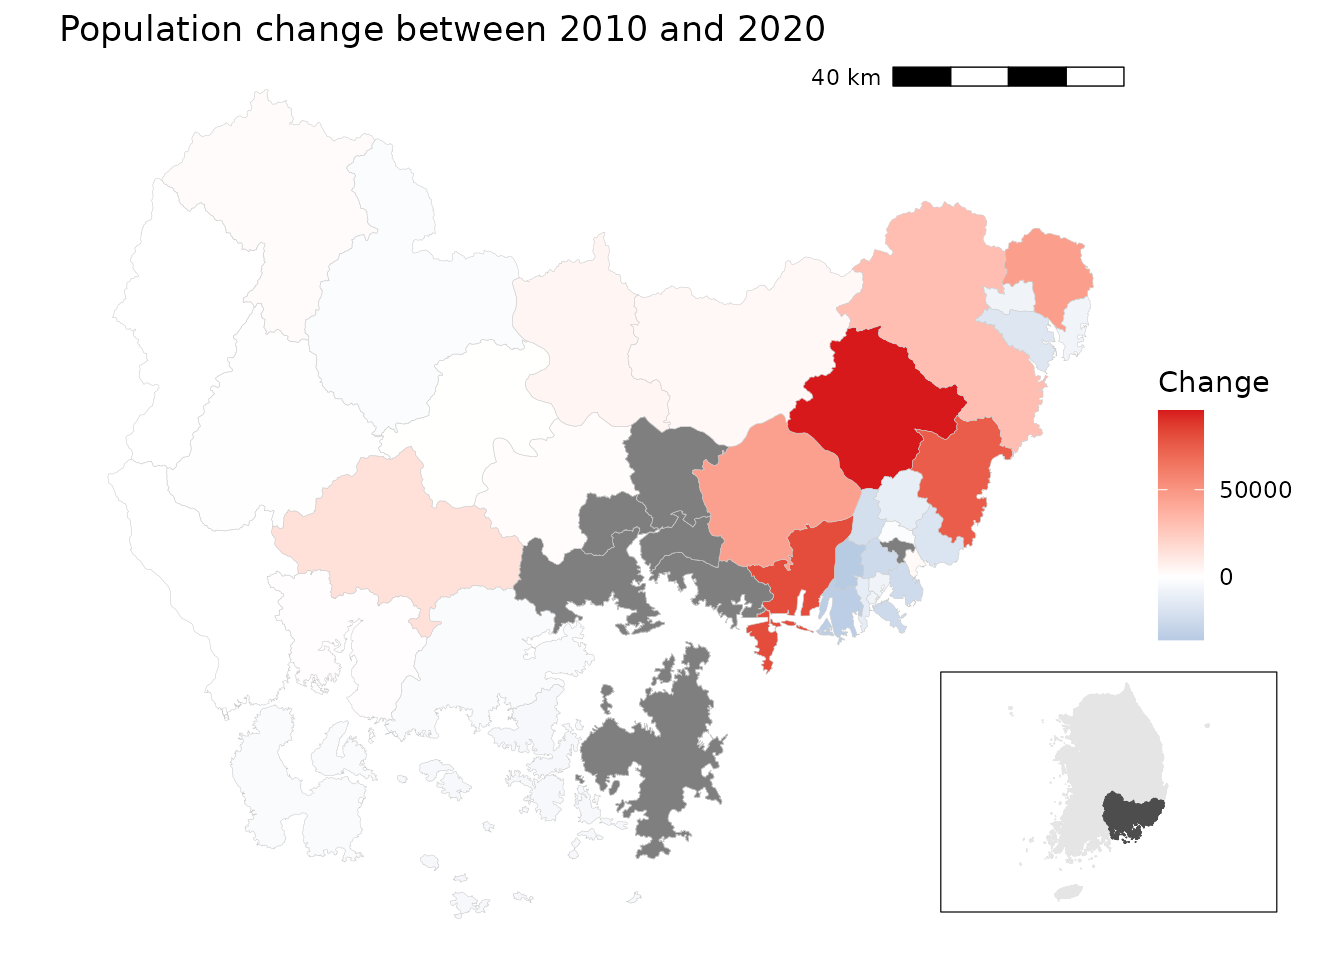
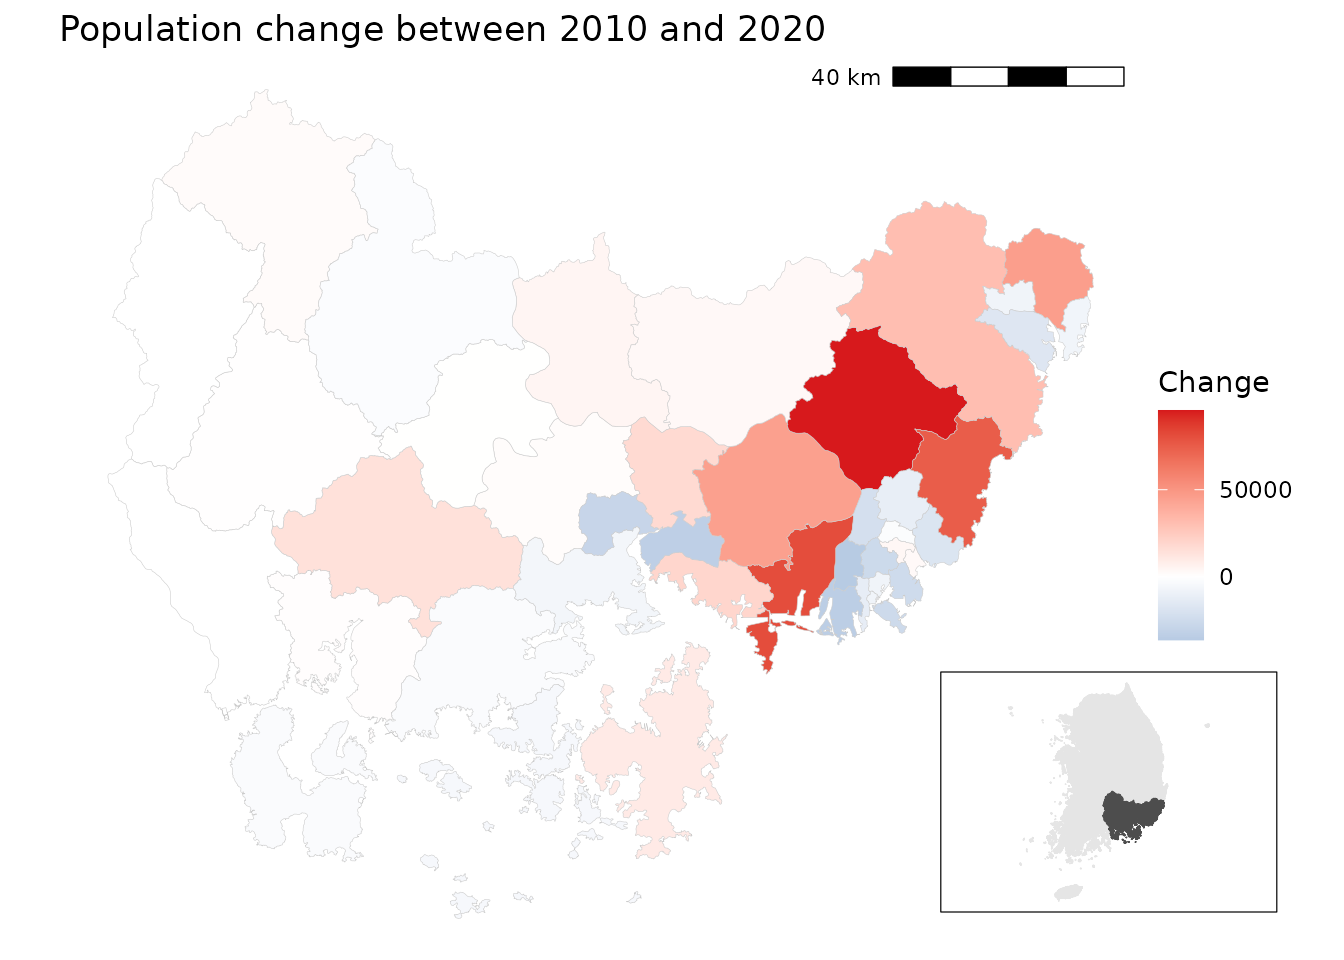
Deploying to gh-pages from @ sigmafelix/tidycensuskr@d9fde5e1b535af398fd969662a090205b90d7689 🚀

Changed region(s): [[0.375, 0.4375, 0.5938, 0.6562], [0.4062, 0.6562, 0.5312, 0.9062], [0.6562, 0.5625, 0.6875, 0.5938]]

diff --git a/articles/v01_intro.html b/articles/v01_intro.html
@@ -20,7 +20,7 @@
 
     <a class="navbar-brand me-2" href="../index.html">tidycensuskr</a>
 
-    <small class="nav-text text-muted me-auto" data-bs-toggle="tooltip" data-bs-placement="bottom" title="">0.2.2</small>
+    <small class="nav-text text-muted me-auto" data-bs-toggle="tooltip" data-bs-placement="bottom" title="">0.2.3</small>
 
 
     <button class="navbar-toggler" type="button" data-bs-toggle="collapse" data-bs-target="#navbar" aria-controls="navbar" aria-expanded="false" aria-label="Toggle navigation">
@@ -60,7 +60,7 @@
 
       <h1>Working with tidycensuskr</h1>
             
-            <h4 data-toc-skip class="date">November 02, 2025</h4>
+            <h4 data-toc-skip class="date">November 05, 2025</h4>
       
       <small class="dont-index">Source: <a href="https://github.com/sigmafelix/tidycensuskr/blob/main/vignettes/v01_intro.Rmd" class="external-link"><code>vignettes/v01_intro.Rmd</code></a></small>
       <div class="d-none name"><code>v01_intro.Rmd</code></div>
@@ -415,20 +415,15 @@ combination of year, region, and category</li>
 <div class="sourceCode" id="cb7"><pre class="downlit sourceCode r">
 <code class="sourceCode R"><span><span class="fu"><a href="https://rdrr.io/r/utils/data.html" class="external-link">data</a></span><span class="op">(</span><span class="va">censuskor</span><span class="op">)</span></span>
 <span><span class="fu"><a href="https://rdrr.io/r/utils/head.html" class="external-link">head</a></span><span class="op">(</span><span class="va">censuskor</span><span class="op">)</span></span>
-<span><span class="co">#&gt;   year              adm1 adm1_code        adm2 adm2_code       type</span></span>
-<span><span class="co">#&gt; 1 2010 Chungcheongbuk-do        33 Cheongju-si     33010 population</span></span>
-<span><span class="co">#&gt; 2 2010 Chungcheongbuk-do        33 Cheongju-si     33010 population</span></span>
-<span><span class="co">#&gt; 3 2010 Chungcheongbuk-do        33 Cheongju-si     33010 population</span></span>
-<span><span class="co">#&gt; 4 2020 Chungcheongbuk-do        33 Cheongju-si     33040        tax</span></span>
-<span><span class="co">#&gt; 5 2020 Chungcheongbuk-do        33 Cheongju-si     33040        tax</span></span>
-<span><span class="co">#&gt; 6 2015 Chungcheongbuk-do        33 Cheongju-si     33040 population</span></span>
-<span><span class="co">#&gt;           class1  class2        unit  value</span></span>
-<span><span class="co">#&gt; 1 all households   total     persons 646939</span></span>
-<span><span class="co">#&gt; 2 all households    male     persons 318355</span></span>
-<span><span class="co">#&gt; 3 all households  female     persons 328584</span></span>
-<span><span class="co">#&gt; 4         income general million KRW 524478</span></span>
-<span><span class="co">#&gt; 5         income   labor million KRW 598560</span></span>
-<span><span class="co">#&gt; 6 all households   total     persons 797099</span></span></code></pre></div>
+<span><span class="co">#&gt; <span style="color: #949494;"># A data frame: 6 × 10</span></span></span>
+<span><span class="co">#&gt;    year adm1          adm1_code adm2  adm2_code type  class1 class2 unit   value</span></span>
+<span><span class="co">#&gt; <span style="color: #BCBCBC;">*</span> <span style="color: #949494; font-style: italic;">&lt;dbl&gt;</span> <span style="color: #949494; font-style: italic;">&lt;chr&gt;</span>             <span style="color: #949494; font-style: italic;">&lt;dbl&gt;</span> <span style="color: #949494; font-style: italic;">&lt;chr&gt;</span>     <span style="color: #949494; font-style: italic;">&lt;dbl&gt;</span> <span style="color: #949494; font-style: italic;">&lt;chr&gt;</span> <span style="color: #949494; font-style: italic;">&lt;chr&gt;</span>  <span style="color: #949494; font-style: italic;">&lt;chr&gt;</span>  <span style="color: #949494; font-style: italic;">&lt;chr&gt;</span>  <span style="color: #949494; font-style: italic;">&lt;dbl&gt;</span></span></span>
+<span><span class="co">#&gt; <span style="color: #BCBCBC;">1</span>  <span style="text-decoration: underline;">2</span>010 Chungcheongb…        33 Cheo…     <span style="text-decoration: underline;">33</span>010 popu… all h… total  pers… <span style="text-decoration: underline;">646</span>939</span></span>
+<span><span class="co">#&gt; <span style="color: #BCBCBC;">2</span>  <span style="text-decoration: underline;">2</span>010 Chungcheongb…        33 Cheo…     <span style="text-decoration: underline;">33</span>010 popu… all h… male   pers… <span style="text-decoration: underline;">318</span>355</span></span>
+<span><span class="co">#&gt; <span style="color: #BCBCBC;">3</span>  <span style="text-decoration: underline;">2</span>010 Chungcheongb…        33 Cheo…     <span style="text-decoration: underline;">33</span>010 popu… all h… female pers… <span style="text-decoration: underline;">328</span>584</span></span>
+<span><span class="co">#&gt; <span style="color: #BCBCBC;">4</span>  <span style="text-decoration: underline;">2</span>020 Chungcheongb…        33 Cheo…     <span style="text-decoration: underline;">33</span>040 tax   income gener… mill… <span style="text-decoration: underline;">524</span>478</span></span>
+<span><span class="co">#&gt; <span style="color: #BCBCBC;">5</span>  <span style="text-decoration: underline;">2</span>020 Chungcheongb…        33 Cheo…     <span style="text-decoration: underline;">33</span>040 tax   income labor  mill… <span style="text-decoration: underline;">598</span>560</span></span>
+<span><span class="co">#&gt; <span style="color: #BCBCBC;">6</span>  <span style="text-decoration: underline;">2</span>015 Chungcheongb…        33 Cheo…     <span style="text-decoration: underline;">33</span>040 popu… all h… total  pers… <span style="text-decoration: underline;">797</span>099</span></span></code></pre></div>
 </div>
 <div class="section level3">
 <h3 id="quick-visualization">Quick Visualization<a class="anchor" aria-label="anchor" href="#quick-visualization"></a>

diff --git a/articles/v03_gallery.html b/articles/v03_gallery.html
@@ -20,7 +20,7 @@
 
     <a class="navbar-brand me-2" href="../index.html">tidycensuskr</a>
 
-    <small class="nav-text text-muted me-auto" data-bs-toggle="tooltip" data-bs-placement="bottom" title="">0.2.2</small>
+    <small class="nav-text text-muted me-auto" data-bs-toggle="tooltip" data-bs-placement="bottom" title="">0.2.3</small>
 
 
     <button class="navbar-toggler" type="button" data-bs-toggle="collapse" data-bs-target="#navbar" aria-controls="navbar" aria-expanded="false" aria-label="Toggle navigation">
@@ -60,7 +60,7 @@
 
       <h1>Analytics Gallery with tidycensuskr</h1>
             
-            <h4 data-toc-skip class="date">November 02, 2025</h4>
+            <h4 data-toc-skip class="date">November 05, 2025</h4>
       
       <small class="dont-index">Source: <a href="https://github.com/sigmafelix/tidycensuskr/blob/main/vignettes/v03_gallery.Rmd" class="external-link"><code>vignettes/v03_gallery.Rmd</code></a></small>
       <div class="d-none name"><code>v03_gallery.Rmd</code></div>
@@ -108,12 +108,12 @@ areas.</p>
 <span><span class="fu"><a href="https://rdrr.io/r/utils/data.html" class="external-link">data</a></span><span class="op">(</span><span class="va">adm2_sf_2020</span><span class="op">)</span></span>
 <span></span>
 <span><span class="co"># Load 2020 economy data</span></span>
-<span><span class="va">df_2020_economy</span> <span class="op">&lt;-</span> <span class="fu"><a href="../reference/anycensus.html">anycensus</a></span><span class="op">(</span>year <span class="op">=</span> <span class="fl">2020</span>, </span>
+<span><span class="va">df_2020_economy</span> <span class="op">&lt;-</span> <span class="fu"><a href="../reference/anycensus.html">anycensus</a></span><span class="op">(</span>year <span class="op">=</span> <span class="fl">2020</span>,</span>
 <span>                             type <span class="op">=</span> <span class="st">"economy"</span><span class="op">)</span></span>
 <span></span>
 <span><span class="co"># Merge with spatial data</span></span>
 <span><span class="va">adm2_sf_2020_economy</span> <span class="op">&lt;-</span> <span class="va">adm2_sf_2020</span> <span class="op">|&gt;</span></span>
-<span>  <span class="fu"><a href="https://dplyr.tidyverse.org/reference/mutate-joins.html" class="external-link">inner_join</a></span><span class="op">(</span><span class="va">df_2020_economy</span>, by <span class="op">=</span> <span class="st">"adm2_code"</span><span class="op">)</span> </span>
+<span>  <span class="fu">dplyr</span><span class="fu">::</span><span class="fu"><a href="https://dplyr.tidyverse.org/reference/mutate-joins.html" class="external-link">inner_join</a></span><span class="op">(</span><span class="va">df_2020_economy</span>, by <span class="op">=</span> <span class="st">"adm2_code"</span><span class="op">)</span></span>
 <span></span>
 <span><span class="co"># Variable of interest: number of companies</span></span>
 <span><span class="va">var</span> <span class="op">&lt;-</span> <span class="va">adm2_sf_2020_economy</span><span class="op">$</span><span class="va">company_total_cnt</span></span></code></pre></div>
@@ -146,7 +146,7 @@ areas.</p>
 <h3 id="local-morans-i-and-lisa-map">Local Moran’s I and LISA map<a class="anchor" aria-label="anchor" href="#local-morans-i-and-lisa-map"></a>
 </h3>
 <div class="sourceCode" id="cb4"><pre class="downlit sourceCode r">
-<code class="sourceCode R"><span><span class="co"># Local Moran’s I</span></span>
+<code class="sourceCode R"><span><span class="co"># Local Moran's I</span></span>
 <span><span class="va">local_moran</span> <span class="op">&lt;-</span> <span class="fu">localmoran</span><span class="op">(</span><span class="va">var</span>, <span class="va">lw</span>, zero.policy <span class="op">=</span> <span class="cn">TRUE</span><span class="op">)</span></span>
 <span></span>
 <span><span class="co"># Bind results back to sf object</span></span>
@@ -184,9 +184,9 @@ areas.</p>
 <span>  <span class="fu"><a href="https://ggplot2.tidyverse.org/reference/ggtheme.html" class="external-link">theme_minimal</a></span><span class="op">(</span><span class="op">)</span></span></code></pre></div>
 <p><img src="v03_gallery_files/figure-html/local_moran_1,%20-1.png" width="672"></p>
 <p>The results reveal a strong metropolitan concentration of economic
-activity. High–High (H–H) clusters are predominantly located in the
+activity. High-High (H-H) clusters are predominantly located in the
 Seoul Metropolitan Area, reflecting its central role in South Korea’s
-economy. Low–Low (L–L) clusters appear in Gangwon Province and along the
+economy. Low-Low (L-L) clusters appear in Gangwon Province and along the
 borders of Jeollabuk-do, Jeollanam-do, Gyeongsangbuk-do, and
 Chungcheongnam-do, indicating regions with consistently low levels of
 company presence. This spatial pattern highlights the dominance of the

diff --git a/reference/censuskor.html b/reference/censuskor.html
@@ -1,7 +1,9 @@
 <!DOCTYPE html>
 <!-- Generated by pkgdown: do not edit by hand --><html lang="en"><head><meta http-equiv="Content-Type" content="text/html; charset=UTF-8"><meta charset="utf-8"><meta http-equiv="X-UA-Compatible" content="IE=edge"><meta name="viewport" content="width=device-width, initial-scale=1, shrink-to-fit=no"><title>South Korea Census Data — censuskor • tidycensuskr</title><script src="../deps/jquery-3.6.0/jquery-3.6.0.min.js"></script><meta name="viewport" content="width=device-width, initial-scale=1, shrink-to-fit=no"><link href="../deps/bootstrap-5.3.1/bootstrap.min.css" rel="stylesheet"><script src="../deps/bootstrap-5.3.1/bootstrap.bundle.min.js"></script><link href="../deps/font-awesome-6.5.2/css/all.min.css" rel="stylesheet"><link href="../deps/font-awesome-6.5.2/css/v4-shims.min.css" rel="stylesheet"><script src="../deps/headroom-0.11.0/headroom.min.js"></script><script src="../deps/headroom-0.11.0/jQuery.headroom.min.js"></script><script src="../deps/bootstrap-toc-1.0.1/bootstrap-toc.min.js"></script><script src="../deps/clipboard.js-2.0.11/clipboard.min.js"></script><script src="../deps/search-1.0.0/autocomplete.jquery.min.js"></script><script src="../deps/search-1.0.0/fuse.min.js"></script><script src="../deps/search-1.0.0/mark.min.js"></script><!-- pkgdown --><script src="../pkgdown.js"></script><meta property="og:title" content="South Korea Census Data — censuskor"><meta name="description" content="District level data including tax, population, business entities,
+housing, economy, medicine
 and mortality in South Korea in 2010, 2015, and/or 2020. The availble
 years and variables depend on the type of data."><meta property="og:description" content="District level data including tax, population, business entities,
+housing, economy, medicine
 and mortality in South Korea in 2010, 2015, and/or 2020. The availble
 years and variables depend on the type of data."></head><body>
     <a href="#main" class="visually-hidden-focusable">Skip to contents</a>
@@ -11,7 +13,7 @@ years and variables depend on the type of data."></head><body>
 
     <a class="navbar-brand me-2" href="../index.html">tidycensuskr</a>
 
-    <small class="nav-text text-muted me-auto" data-bs-toggle="tooltip" data-bs-placement="bottom" title="">0.2.2</small>
+    <small class="nav-text text-muted me-auto" data-bs-toggle="tooltip" data-bs-placement="bottom" title="">0.2.3</small>
 
 
     <button class="navbar-toggler" type="button" data-bs-toggle="collapse" data-bs-target="#navbar" aria-controls="navbar" aria-expanded="false" aria-label="Toggle navigation">
@@ -45,6 +47,7 @@ years and variables depend on the type of data."></head><body>
 
     <div class="ref-description section level2">
     <p>District level data including tax, population, business entities,
+housing, economy, medicine
 and mortality in South Korea in 2010, 2015, and/or 2020. The availble
 years and variables depend on the type of data.</p>
     </div>
@@ -56,7 +59,7 @@ years and variables depend on the type of data.</p>
 
     <div class="section level2">
     <h2 id="format">Format<a class="anchor" aria-label="anchor" href="#format"></a></h2>
-    <p>A data.frame with 41930 rows and 10 variables:</p>
+    <p>A data.frame with 54218 rows and 10 variables:</p>
     </div>
     <div class="section level2">
     <h2 id="source">Source<a class="anchor" aria-label="anchor" href="#source"></a></h2>
@@ -80,7 +83,10 @@ e.g., "population", "tax", "mortality", "housing", "medicine", "migration", "env
 </ul></div>
     <div class="section level2">
     <h2 id="note">Note<a class="anchor" aria-label="anchor" href="#note"></a></h2>
-    <p>For temporal comparison, province names in adm1 field are
+    <p>NA values in the value field indicate that the data was omitted
+or suppressed. We kept these NA values as-is to reflect the
+original data from the source.
+For temporal comparison, province names in adm1 field are
 standardized to the common names with no suffix in metropolitan cities
 and "-do" suffix in provinces.
 For example, "Seoul" instead of "Seoul Metropolitan City",

diff --git a/index.html b/index.html
@@ -11,8 +11,8 @@
 <script src="deps/bootstrap-5.3.1/bootstrap.bundle.min.js"></script><link href="deps/font-awesome-6.5.2/css/all.min.css" rel="stylesheet">
 <link href="deps/font-awesome-6.5.2/css/v4-shims.min.css" rel="stylesheet">
 <script src="deps/headroom-0.11.0/headroom.min.js"></script><script src="deps/headroom-0.11.0/jQuery.headroom.min.js"></script><script src="deps/bootstrap-toc-1.0.1/bootstrap-toc.min.js"></script><script src="deps/clipboard.js-2.0.11/clipboard.min.js"></script><script src="deps/search-1.0.0/autocomplete.jquery.min.js"></script><script src="deps/search-1.0.0/fuse.min.js"></script><script src="deps/search-1.0.0/mark.min.js"></script><!-- pkgdown --><script src="pkgdown.js"></script><meta property="og:title" content="Easy Access for South Korea Census Data and Boundaries">
-<meta name="description" content="Census and administrative data in South Korea are a basic source of quantitative and mixed-methods research for social and urban scientists. This package provides a sf-based standardized workflow based on direct open API access to the major census and administrative data sources and pre-generated files in South Korea.">
-<meta property="og:description" content="Census and administrative data in South Korea are a basic source of quantitative and mixed-methods research for social and urban scientists. This package provides a sf-based standardized workflow based on direct open API access to the major census and administrative data sources and pre-generated files in South Korea.">
+<meta name="description" content="Census and administrative data in South Korea are a basic source of quantitative and mixed-methods research for social and urban scientists. This package provides a sf (Pebesma et al., 2024 &lt;doi:10.32614/CRAN.package.sf&gt;) based standardized workflow based on direct open API access to the major census and administrative data sources and pre-generated files in South Korea.">
+<meta property="og:description" content="Census and administrative data in South Korea are a basic source of quantitative and mixed-methods research for social and urban scientists. This package provides a sf (Pebesma et al., 2024 &lt;doi:10.32614/CRAN.package.sf&gt;) based standardized workflow based on direct open API access to the major census and administrative data sources and pre-generated files in South Korea.">
 </head>
 <body>
     <a href="#main" class="visually-hidden-focusable">Skip to contents</a>
@@ -22,7 +22,7 @@
 
     <a class="navbar-brand me-2" href="index.html">tidycensuskr</a>
 
-    <small class="nav-text text-muted me-auto" data-bs-toggle="tooltip" data-bs-placement="bottom" title="">0.2.2</small>
+    <small class="nav-text text-muted me-auto" data-bs-toggle="tooltip" data-bs-placement="bottom" title="">0.2.3</small>
 
 
     <button class="navbar-toggler" type="button" data-bs-toggle="collapse" data-bs-target="#navbar" aria-controls="navbar" aria-expanded="false" aria-label="Toggle navigation">

diff --git a/authors.html b/authors.html
@@ -7,7 +7,7 @@
 
     <a class="navbar-brand me-2" href="index.html">tidycensuskr</a>
 
-    <small class="nav-text text-muted me-auto" data-bs-toggle="tooltip" data-bs-placement="bottom" title="">0.2.2</small>
+    <small class="nav-text text-muted me-auto" data-bs-toggle="tooltip" data-bs-placement="bottom" title="">0.2.3</small>
 
 
     <button class="navbar-toggler" type="button" data-bs-toggle="collapse" data-bs-target="#navbar" aria-controls="navbar" aria-expanded="false" aria-label="Toggle navigation">
@@ -60,13 +60,13 @@
 
       <p>Song I, Park S, Shin H (2025).
 <em>tidycensuskr : Easy Access for South Korea Census Data and Boundaries</em>.
-R package version 0.2.2, <a href="https://github.com/sigmafelix/tidycensuskr" class="external-link">https://github.com/sigmafelix/tidycensuskr</a>.
+R package version 0.2.3, <a href="https://github.com/sigmafelix/tidycensuskr" class="external-link">https://github.com/sigmafelix/tidycensuskr</a>.
 </p>
       <pre>@Manual{,
   title = {tidycensuskr : Easy Access for South Korea Census Data and Boundaries},
   author = {Insang Song and Sohyun Park and Hyesop Shin},
   year = {2025},
-  note = {R package version 0.2.2},
+  note = {R package version 0.2.3},
   url = {https://github.com/sigmafelix/tidycensuskr},
 }</pre>
     </div>

diff --git a/reference/anycensus.html b/reference/anycensus.html
@@ -9,7 +9,7 @@
 
     <a class="navbar-brand me-2" href="../index.html">tidycensuskr</a>
 
-    <small class="nav-text text-muted me-auto" data-bs-toggle="tooltip" data-bs-placement="bottom" title="">0.2.2</small>
+    <small class="nav-text text-muted me-auto" data-bs-toggle="tooltip" data-bs-placement="bottom" title="">0.2.3</small>
 
 
     <button class="navbar-toggler" type="button" data-bs-toggle="collapse" data-bs-target="#navbar" aria-controls="navbar" aria-expanded="false" aria-label="Toggle navigation">
@@ -100,7 +100,9 @@ for the specified codes and year.</p>
     <div class="section level2">
     <h2 id="note">Note<a class="anchor" aria-label="anchor" href="#note"></a></h2>
     <p>Using characters in <code>codes</code> has a side effect of returning
-all rows in the dataset that match year and type.</p>
+all rows in the dataset that match year and type.
+The 'wide' table is returned with separate columns for each
+<code>class1</code> and <code>class2</code> and <code>unit</code> (abbreviated whereof) combination.</p>
     </div>
 
     <div class="section level2">

diff --git a/articles/v04_data_cleaning_kosis.html b/articles/v04_data_cleaning_kosis.html
@@ -20,7 +20,7 @@
 
     <a class="navbar-brand me-2" href="../index.html">tidycensuskr</a>
 
-    <small class="nav-text text-muted me-auto" data-bs-toggle="tooltip" data-bs-placement="bottom" title="">0.2.2</small>
+    <small class="nav-text text-muted me-auto" data-bs-toggle="tooltip" data-bs-placement="bottom" title="">0.2.3</small>
 
 
     <button class="navbar-toggler" type="button" data-bs-toggle="collapse" data-bs-target="#navbar" aria-controls="navbar" aria-expanded="false" aria-label="Toggle navigation">
@@ -60,7 +60,7 @@
 
       <h1>Data Cleaning: From KOSIS Raw Data to Tidy Format</h1>
             
-            <h4 data-toc-skip class="date">November 02, 2025</h4>
+            <h4 data-toc-skip class="date">November 05, 2025</h4>
       
       <small class="dont-index">Source: <a href="https://github.com/sigmafelix/tidycensuskr/blob/main/vignettes/v04_data_cleaning_kosis.Rmd" class="external-link"><code>vignettes/v04_data_cleaning_kosis.Rmd</code></a></small>
       <div class="d-none name"><code>v04_data_cleaning_kosis.Rmd</code></div>

diff --git a/articles/v02_regional_analysis.html b/articles/v02_regional_analysis.html
@@ -20,7 +20,7 @@
 
     <a class="navbar-brand me-2" href="../index.html">tidycensuskr</a>
 
-    <small class="nav-text text-muted me-auto" data-bs-toggle="tooltip" data-bs-placement="bottom" title="">0.2.2</small>
+    <small class="nav-text text-muted me-auto" data-bs-toggle="tooltip" data-bs-placement="bottom" title="">0.2.3</small>
 
 
     <button class="navbar-toggler" type="button" data-bs-toggle="collapse" data-bs-target="#navbar" aria-controls="navbar" aria-expanded="false" aria-label="Toggle navigation">
@@ -60,7 +60,7 @@
 
       <h1>Regional analysis with tidycensuskr</h1>
             
-            <h4 data-toc-skip class="date">November 02, 2025</h4>
+            <h4 data-toc-skip class="date">November 05, 2025</h4>
       
       <small class="dont-index">Source: <a href="https://github.com/sigmafelix/tidycensuskr/blob/main/vignettes/v02_regional_analysis.Rmd" class="external-link"><code>vignettes/v02_regional_analysis.Rmd</code></a></small>
       <div class="d-none name"><code>v02_regional_analysis.Rmd</code></div>

diff --git a/reference/kr_grid_adm2_sgis_2020.html b/reference/kr_grid_adm2_sgis_2020.html
@@ -15,7 +15,7 @@ package to create faceted visualizations based on geographic layout."></head><bo
 
     <a class="navbar-brand me-2" href="../index.html">tidycensuskr</a>
 
-    <small class="nav-text text-muted me-auto" data-bs-toggle="tooltip" data-bs-placement="bottom" title="">0.2.2</small>
+    <small class="nav-text text-muted me-auto" data-bs-toggle="tooltip" data-bs-placement="bottom" title="">0.2.3</small>
 
 
     <button class="navbar-toggler" type="button" data-bs-toggle="collapse" data-bs-target="#navbar" aria-controls="navbar" aria-expanded="false" aria-label="Toggle navigation">

diff --git a/reference/adm2_sf_2020.html b/reference/adm2_sf_2020.html
@@ -9,7 +9,7 @@ can be used to join with an anycensus() output."></head><body>
 
     <a class="navbar-brand me-2" href="../index.html">tidycensuskr</a>
 
-    <small class="nav-text text-muted me-auto" data-bs-toggle="tooltip" data-bs-placement="bottom" title="">0.2.2</small>
+    <small class="nav-text text-muted me-auto" data-bs-toggle="tooltip" data-bs-placement="bottom" title="">0.2.3</small>
 
 
     <button class="navbar-toggler" type="button" data-bs-toggle="collapse" data-bs-target="#navbar" aria-controls="navbar" aria-expanded="false" aria-label="Toggle navigation">

diff --git a/reference/set_kosis_key.html b/reference/set_kosis_key.html
@@ -9,7 +9,7 @@ sets it for use in KOSIS API calls."></head><body>
 
     <a class="navbar-brand me-2" href="../index.html">tidycensuskr</a>
 
-    <small class="nav-text text-muted me-auto" data-bs-toggle="tooltip" data-bs-placement="bottom" title="">0.2.2</small>
+    <small class="nav-text text-muted me-auto" data-bs-toggle="tooltip" data-bs-placement="bottom" title="">0.2.3</small>
 
 
     <button class="navbar-toggler" type="button" data-bs-toggle="collapse" data-bs-target="#navbar" aria-controls="navbar" aria-expanded="false" aria-label="Toggle navigation">

diff --git a/404.html b/404.html
@@ -20,7 +20,7 @@
 
     <a class="navbar-brand me-2" href="https://sigmafelix.github.io/tidycensuskr/index.html">tidycensuskr</a>
 
-    <small class="nav-text text-muted me-auto" data-bs-toggle="tooltip" data-bs-placement="bottom" title="">0.2.2</small>
+    <small class="nav-text text-muted me-auto" data-bs-toggle="tooltip" data-bs-placement="bottom" title="">0.2.3</small>
 
 
     <button class="navbar-toggler" type="button" data-bs-toggle="collapse" data-bs-target="#navbar" aria-controls="navbar" aria-expanded="false" aria-label="Toggle navigation">
